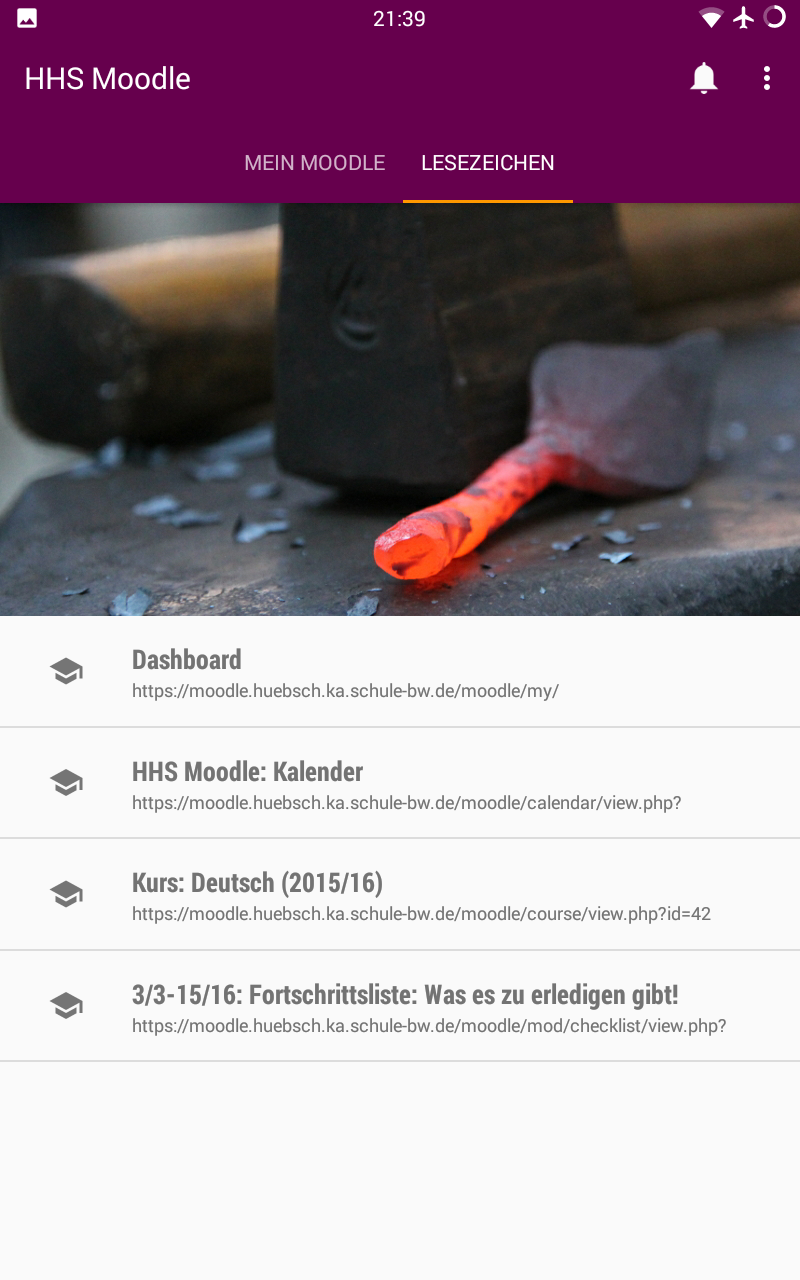
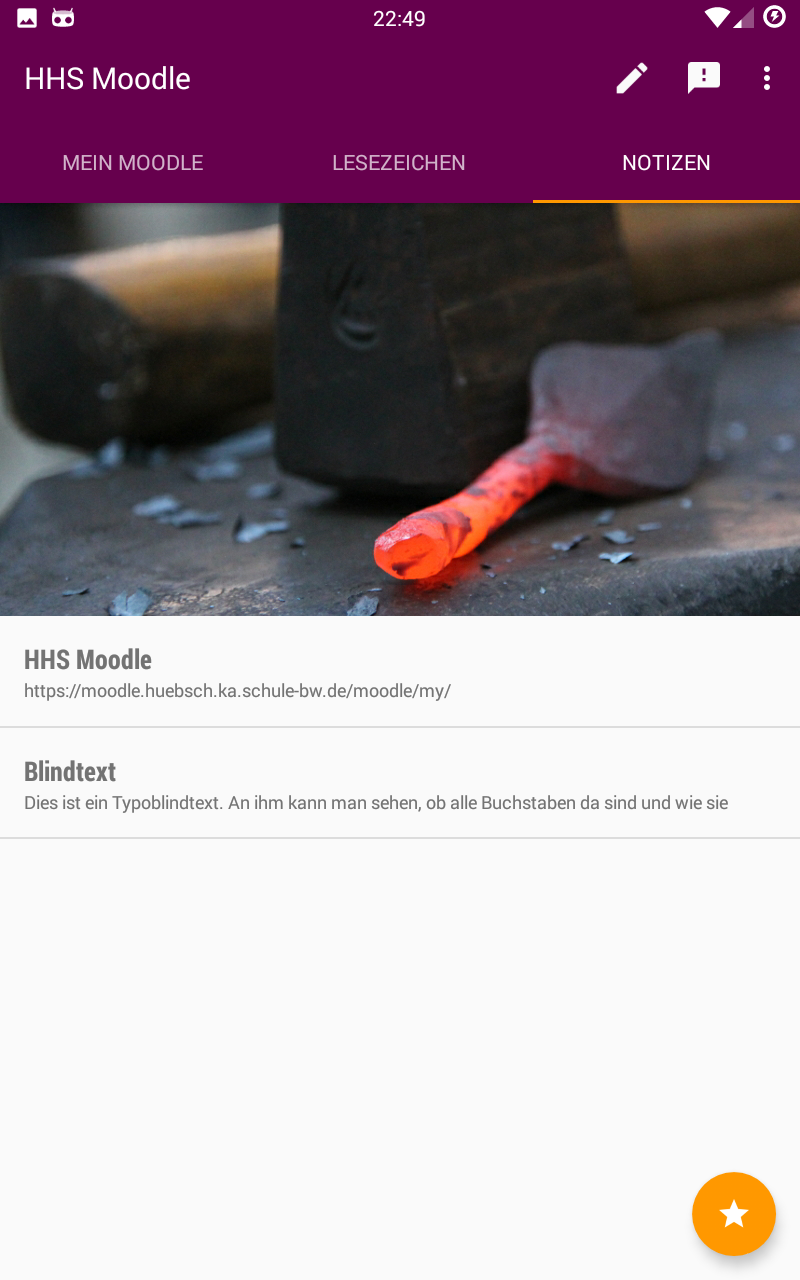
updated screenshots

diff --git a/SCREENSHOTS.md b/SCREENSHOTS.md
@@ -3,3 +3,5 @@
 ![3](https://github.com/scoute-dich/HHSMoodle/blob/master/Screenshots/3.png?raw=true)
 ![4](https://github.com/scoute-dich/HHSMoodle/blob/master/Screenshots/4.png?raw=true)
 ![5](https://github.com/scoute-dich/HHSMoodle/blob/master/Screenshots/5.png?raw=true)
+![6](https://github.com/scoute-dich/HHSMoodle/blob/master/Screenshots/6.png?raw=true)
+![7](https://github.com/scoute-dich/HHSMoodle/blob/master/Screenshots/7.png?raw=true)
